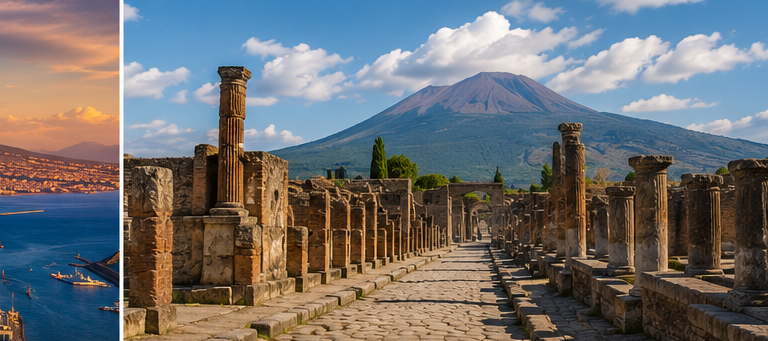
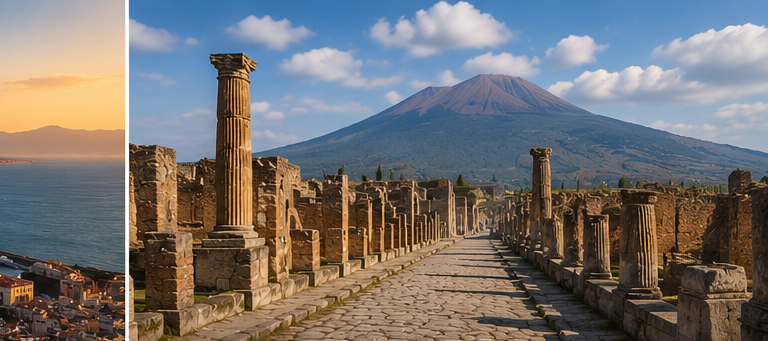
Add hotel/overnatting section + better Napoli photos
Datamodell: nye kolonner hotel_navn, hotel_beskrivelse, hotel_features
på pakketurer (migration_002_overnatting.sql).

UI: ny "Overnatting"-seksjon på skoletur-detaljsiden som viser hotellnavn,
beskrivelse og features med checkmarks.

Napoli: erstatter de første bildene med bedre AI-genererte versjoner og
legger til 3 nye hotellrom-bilder (3-4 mannsrom, 5-6 mannsrom, enkeltrom).
Hotel Partenopeo Student Stay er lagt inn som overnatting.

diff --git a/app/skoleturer/[slug]/page.tsx b/app/skoleturer/[slug]/page.tsx
@@ -130,6 +130,44 @@ export default async function SkoleturDetalj({ params }: Props) {
           </section>
         )}
 
+        {tur.hotel_navn && (
+          <section className="mt-12">
+            <h2 className="text-xl font-semibold">Overnatting</h2>
+            <div className="mt-4 rounded-lg ring-1 ring-zinc-200 dark:ring-zinc-800 p-6 sm:p-8">
+              <h3 className="text-lg font-semibold">{tur.hotel_navn}</h3>
+              {tur.hotel_beskrivelse && (
+                <p className="mt-2 text-zinc-700 dark:text-zinc-300">
+                  {tur.hotel_beskrivelse}
+                </p>
+              )}
+              {tur.hotel_features.length > 0 && (
+                <ul className="mt-4 grid gap-2 sm:grid-cols-2">
+                  {tur.hotel_features.map((f) => (
+                    <li
+                      key={f}
+                      className="flex gap-2 text-sm text-zinc-700 dark:text-zinc-300"
+                    >
+                      <svg
+                        className="mt-0.5 h-4 w-4 flex-shrink-0 text-sky-600 dark:text-sky-400"
+                        viewBox="0 0 24 24"
+                        fill="none"
+                        stroke="currentColor"
+                        strokeWidth={2.5}
+                        strokeLinecap="round"
+                        strokeLinejoin="round"
+                        aria-hidden
+                      >
+                        <path d="M5 13l4 4L19 7" />
+                      </svg>
+                      <span>{f}</span>
+                    </li>
+                  ))}
+                </ul>
+              )}
+            </div>
+          </section>
+        )}
+
         {tur.dager.length > 0 && (
           <section className="mt-12">
             <h2 className="text-xl font-semibold">Reiseplan</h2>

diff --git a/lib/queries.ts b/lib/queries.ts
@@ -12,6 +12,7 @@ export async function getAllePakketurer(): Promise<Pakketur[]> {
            kort_beskrivelse, beskrivelse, pris_nok, varighet_dager,
            hovedbilde_url, tags, avreisedatoer,
            klassetrinn, fag, laeringsmaal, gruppe_min, gruppe_max,
+           hotel_navn, hotel_beskrivelse, hotel_features,
            opprettet_at
     from pakketurer
     order by opprettet_at desc
@@ -27,6 +28,7 @@ export async function getPakketurBySlug(
            kort_beskrivelse, beskrivelse, pris_nok, varighet_dager,
            hovedbilde_url, tags, avreisedatoer,
            klassetrinn, fag, laeringsmaal, gruppe_min, gruppe_max,
+           hotel_navn, hotel_beskrivelse, hotel_features,
            opprettet_at
     from pakketurer
     where slug = ${slug}

diff --git a/lib/types.ts b/lib/types.ts
@@ -16,6 +16,9 @@ export type Pakketur = {
   laeringsmaal: string;
   gruppe_min: number | null;
   gruppe_max: number | null;
+  hotel_navn: string;
+  hotel_beskrivelse: string;
+  hotel_features: string[];
   opprettet_at: string;
 };
 
